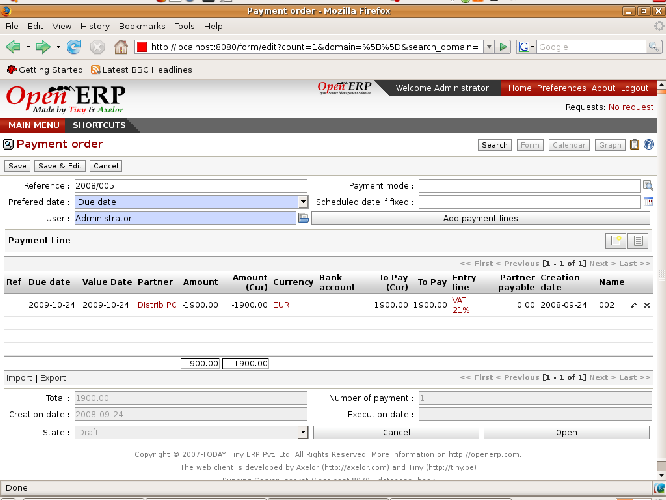
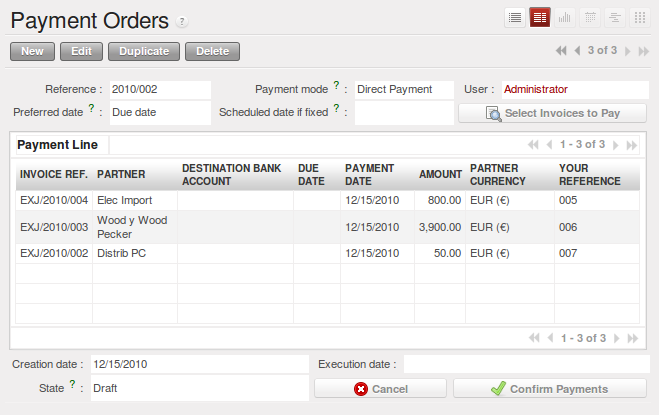
[IMP]: Accounting: Payment Management.

diff --git a/3/3_7/accounting_entries.rst b/3/3_7/accounting_entries.rst
@@ -376,8 +376,8 @@ will then be automatically marked as paid.
    single: payments
 ..
 
-Management of payments
-======================
+Payment Management
+==================
 
 Open ERP gives you forms for preparing, validating and executing payment orders. This enables you
 to manage issues such as:
@@ -395,14 +395,14 @@ to manage issues such as:
 
 	#.	Splitting payments dependent on the balances available in your various bank accounts.
 
-Process for managing payment orders
+How to manage your Payment Orders?
 -----------------------------------
 
 .. index::
    single: module; account_payment
 
 To use the tool for managing payments you must first install the module :mod:`account_payment`.
-It's part of the core Open ERP system.
+It is part of the core Open ERP system.
 
 The system lets you enter a series of payments to be carried out from your various bank
 accounts. Once the different payments have been registered you can validate the payment orders.
@@ -411,13 +411,13 @@ for electronic funds transfer or just printing cheques as you wish.
 
 For example if you have to pay a supplier's invoice for a large amount you can split the payments
 amongst several bank accounts according to their available balance. To do this you can prepare
-several Draft orders and validate them once you're satisfied that the split is correct.
+several Draft orders and validate them once you are satisfied that the split is correct.
 
 This process can also be regularly scheduled. In some companies, a payment order is kept in Draft
-state and payments are added to the draft list each day. At the end of the week it's an accountant's
+state and payments are added to the draft list each day. At the end of the week it is an accountant's
 job to work on all of the waiting payment orders.
 
-Once the payment order is confirmed there's still a validation step for an accountant to carry out.
+Once the payment order is confirmed there is still a validation step for an accountant to carry out.
 You could imagine that these orders would be prepared by an accounts clerk, and then approved by a
 manager to go ahead with payment.
 
@@ -427,7 +427,7 @@ manager to go ahead with payment.
 .. tip:: Payment Workflow
 
 	An Open ERP workflow is associated with each payment order. Select a payment order and
-	if you're in the GTK client
+	if you are in the GTK client
 	click :menuselection:`Plugins --> Print workflow` from the top menu.
 
 	You can integrate more complex workflow rules to manage payment orders by adapting the workflow.
@@ -444,15 +444,14 @@ When the accounting manager validates the document, Open ERP generates a bankin
 payment orders. You can then just send the file over your electronic connection with your bank to
 execute all your payments.
 
-In small businesses it's usually the same person who enters the payment orders and who validates
+In small businesses it is usually the same person who enters the payment orders and who validates
 them. In this case you should just click the two buttons, one after the other, to confirm the
 payment.
 
-Preparation and execution of orders
------------------------------------
+Prepare and Transfer Orders
+---------------------------
 
-To enter a payment order, use the menu :menuselection:`Financial Management --> Payment --> Payment
-Orders --> New Payment Order`.
+To enter a payment order, use the menu :menuselection:`Accounting --> Payment --> Payment Orders`.
 
 .. figure::  images/account_payment_order.png
    :align: center
@@ -463,9 +462,8 @@ Orders --> New Payment Order`.
 Open ERP then proposes a reference number for your payment order.
 
 You then have to choose a payment mode from the various methods available to your company. These
-have to be configured when you set the accounting system up using menus :menuselection:`Financial
-Management --> Configuration --> Payment Type` and :menuselection:`Financial Management -->
-Configuration --> Payment Mode`. Some examples are:
+have to be configured when you set the accounting system up using menu :menuselection:`Accounting -->
+Configuration --> Miscellaneous --> Payment Mode`. Some examples are:
 
 * Cheques
 
@@ -489,8 +487,8 @@ interfaces enable you to select a future execution date for each operation. So t
 Open ERP most simply you can choose to pay all invoices automatically by their deadline.
 
 You must then select the invoices to pay. They can be manually entered in the field
-:guilabel:`Payment Line` but it's easier to add them automatically. For that, click :guilabel:`Add
-payment lines` and Open ERP will then propose lines with payment deadlines. For each deadline you
+:guilabel:`Payment Line` but it is easier to add them automatically. For that, click :guilabel:`Select Invoices to Pay`
+and Open ERP will then propose lines with payment deadlines. For each deadline you
 can see:
 
 * the invoice :guilabel:`Effective date`,
@@ -503,7 +501,7 @@ can see:
 
 * the amount to be paid in the currency of the invoice.
 
-You can then accept the payment proposed by Open ERP or select the entries that you'll pay or not
+You can then accept the payment proposed by Open ERP or select the entries that you will pay or not
 pay on that order. Open ERP gives you all the necessary information to make a payment decision for
 each line item:
 
@@ -529,12 +527,12 @@ visibility of all the company's trade payables. You can pay only a part of an in
 and in preparing your next payment order Open ERP automatically suggests payment of the remainder
 owed.
 
-When the payment has been prepared correctly, click :guilabel:`Confirm`. The payment then changes to
-the \ ``Open``\   state and a new button appears that can be used to start the payment process.
+When the payment has been prepared correctly, click :guilabel:`Confirm Payments`. The payment then changes to
+the \ ``Confirmed``\   state and a new button appears that can be used to start the payment process.
 Depending on the chosen payment method, Open ERP provides a file containing all of the payment
 orders. You can send this to the bank to make the payment transfers.
 
-In future versions of Open ERP it's expected that the system will be able to prepare and print
+In future versions of Open ERP it is expected that the system will be able to prepare and print
 cheques.
 
 As usual, you can change the
